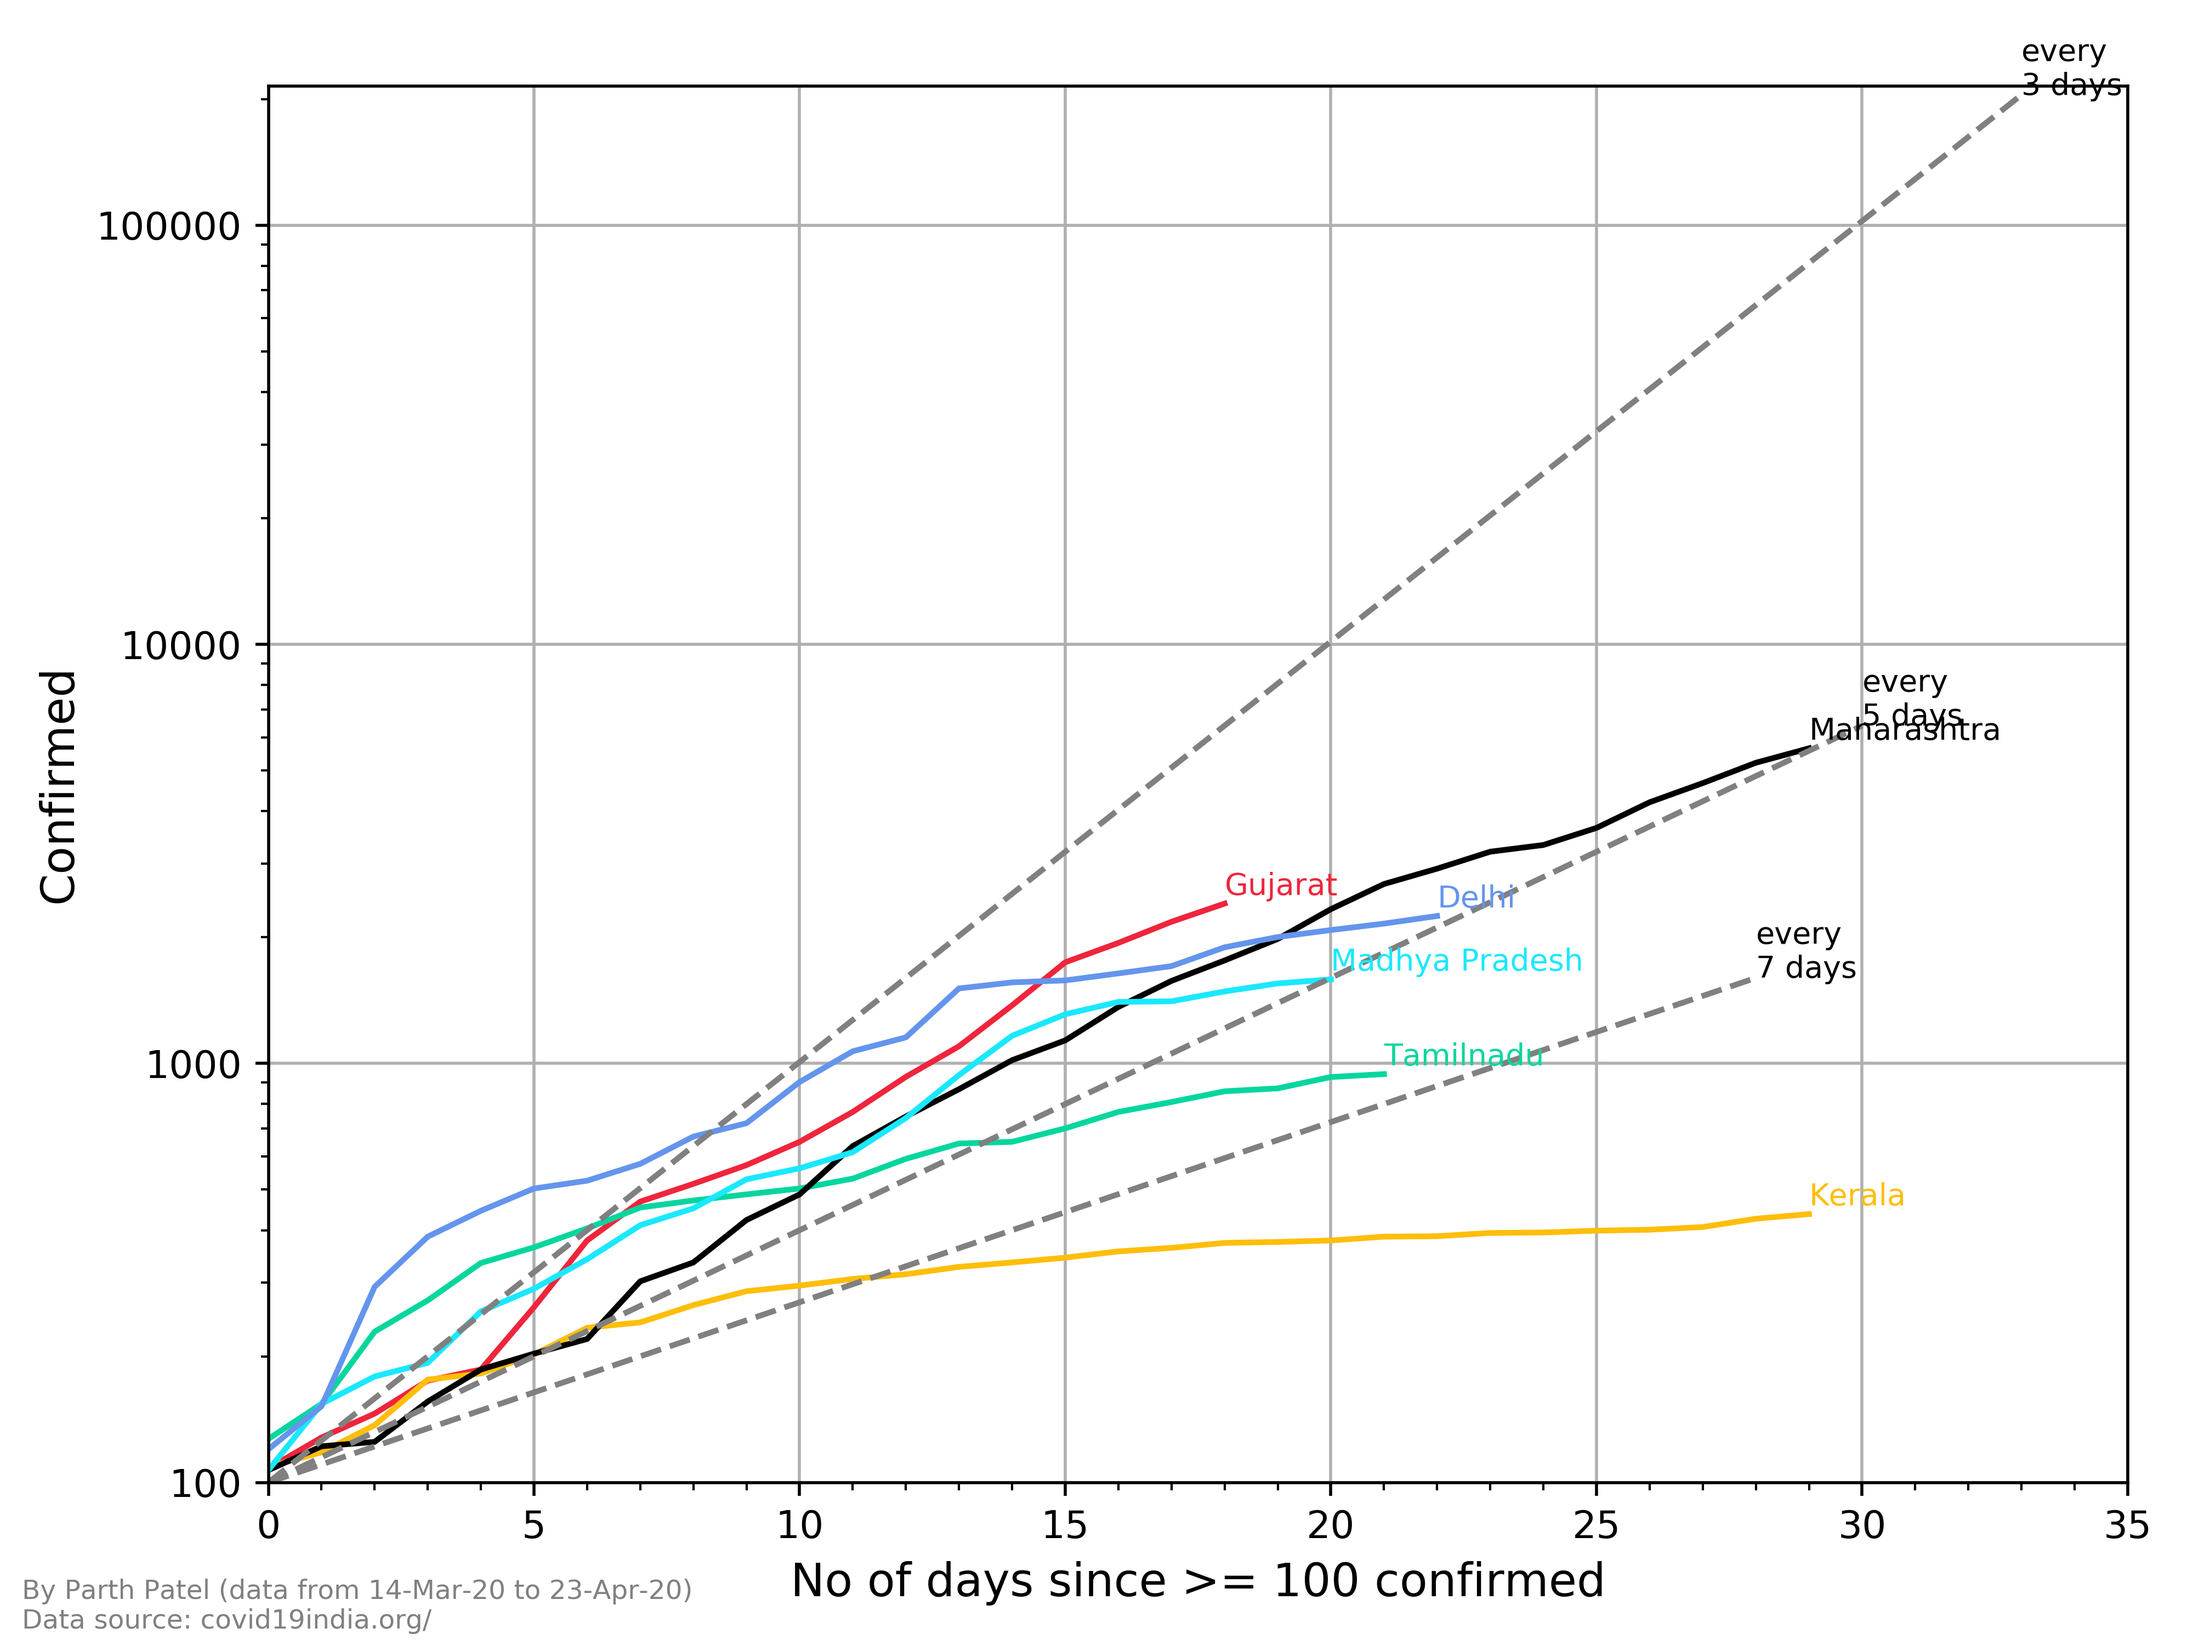
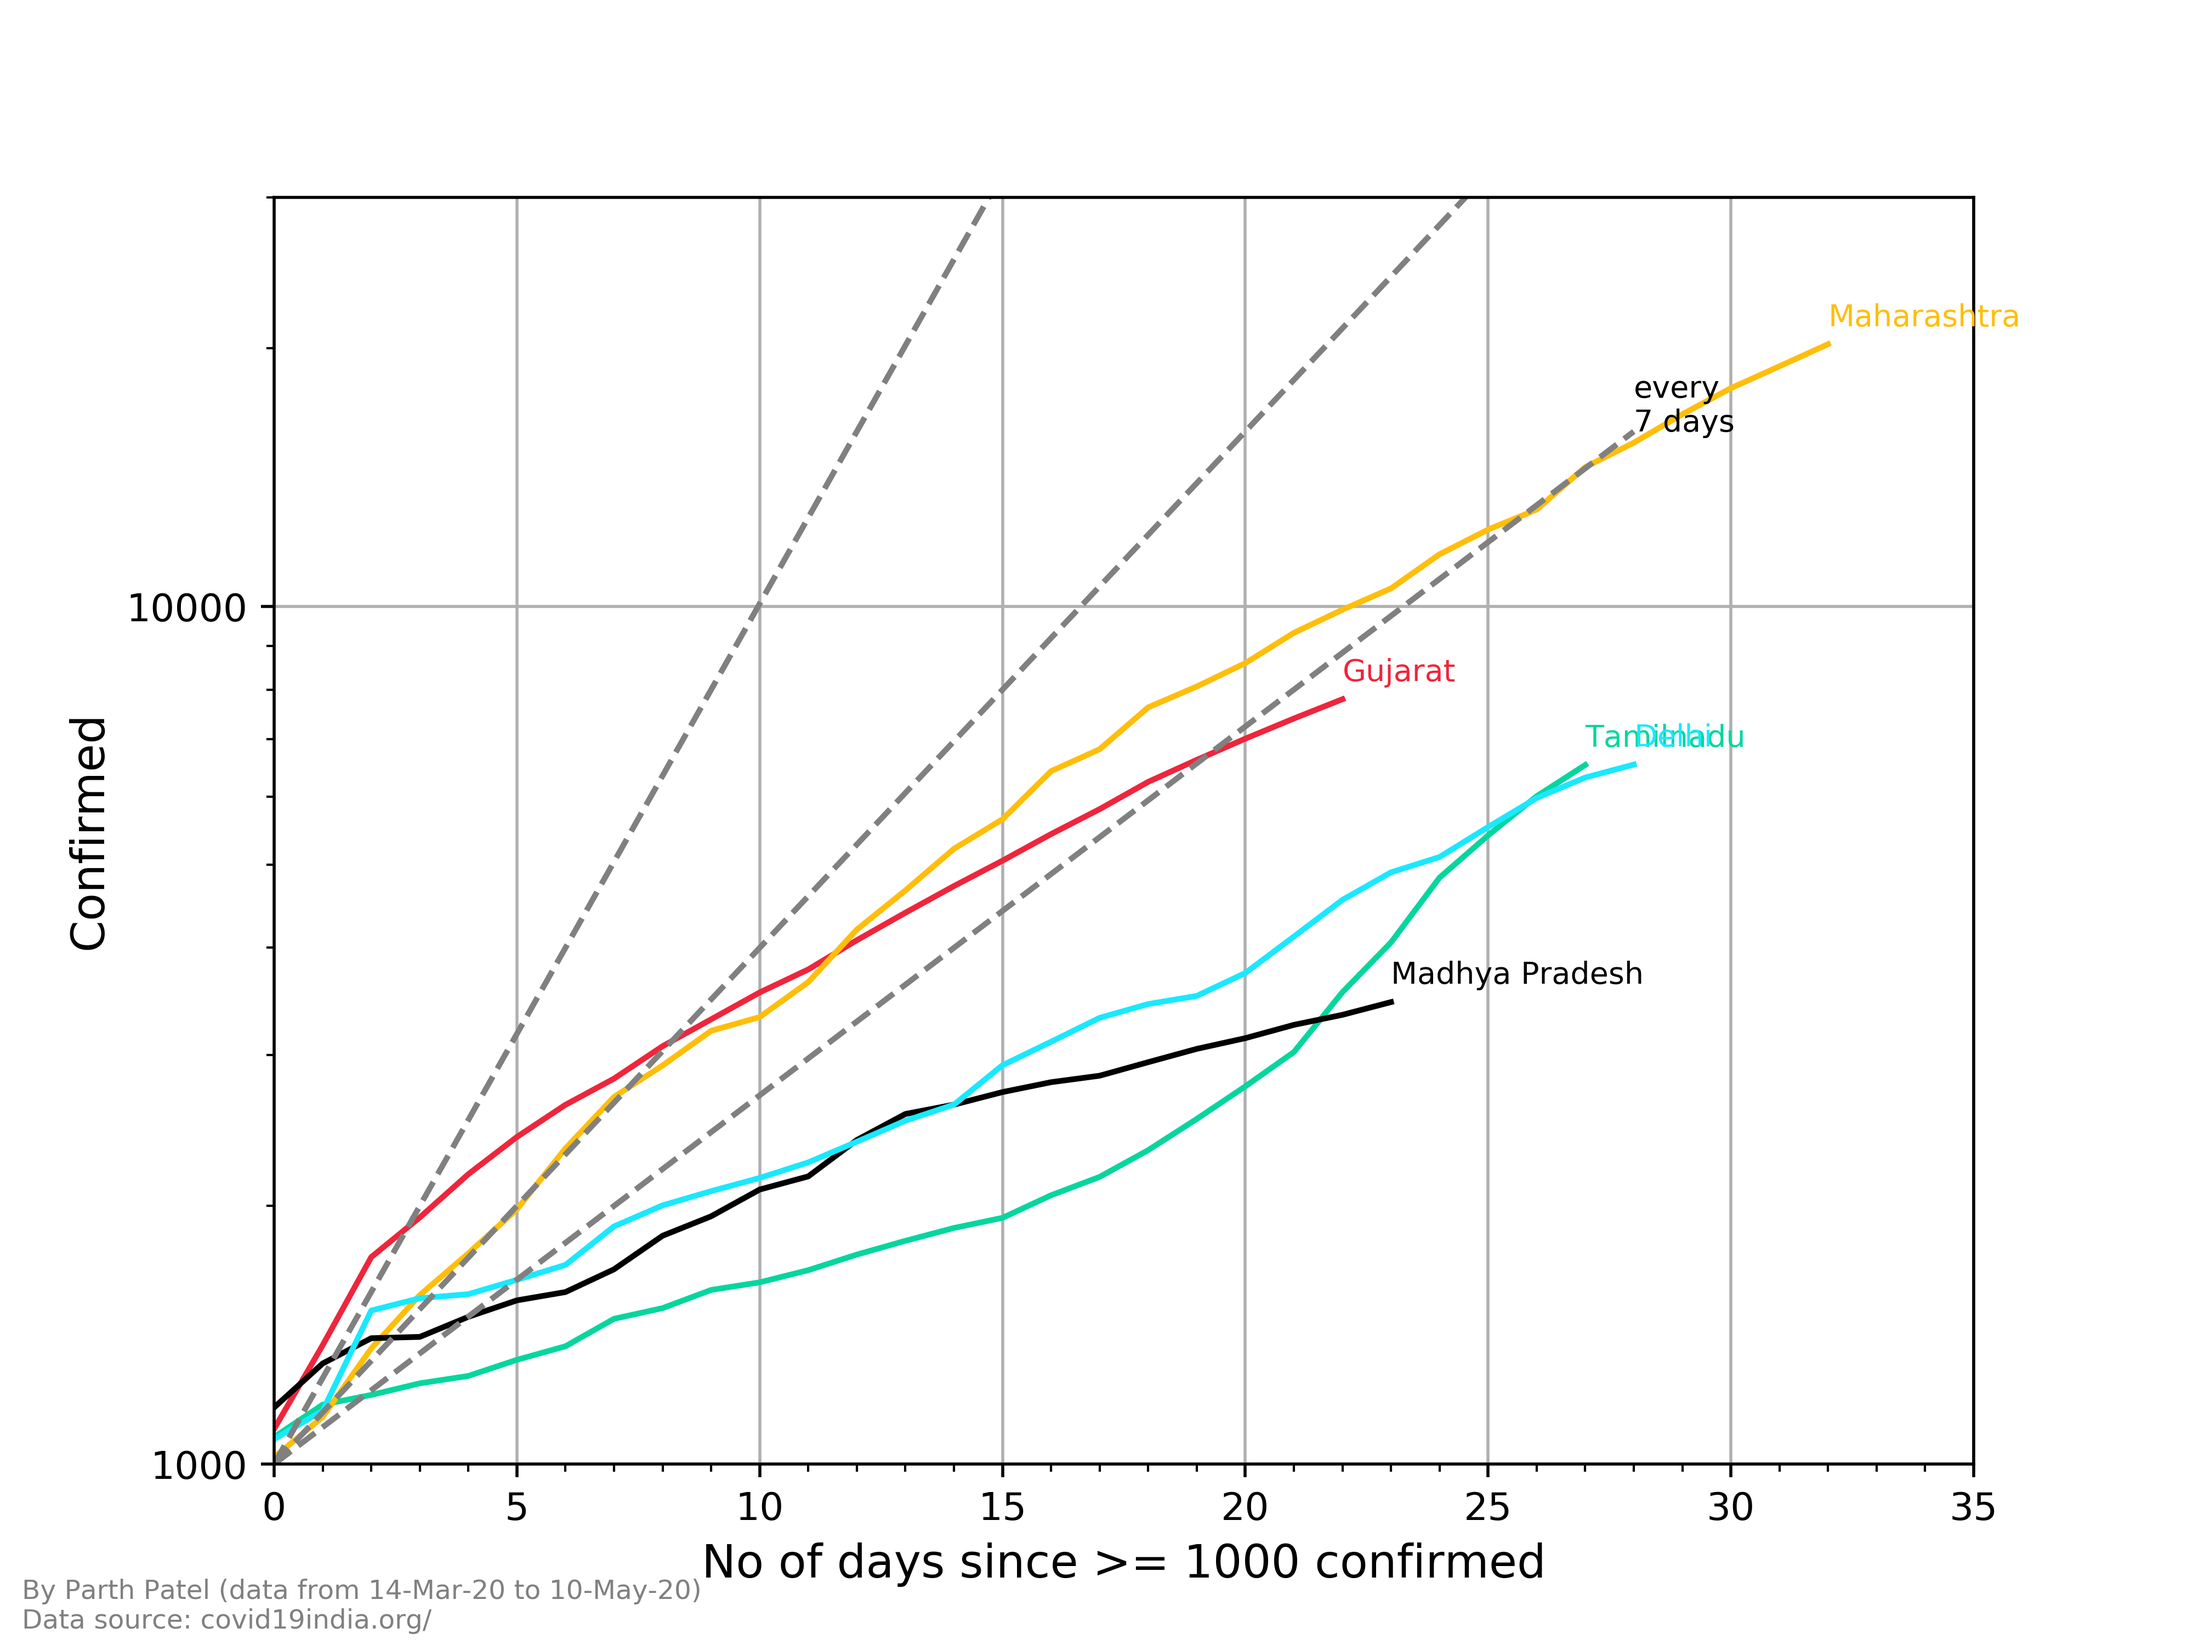
latest

diff --git a/state_wise.py b/state_wise.py
@@ -6,7 +6,7 @@ dict_recovered_daily = {}
 dict_death_daily = {}
 # TT,AN,AP,AR,AS,BR,CH,CT,DD,DL,DN,GA,GJ,HP,HR,JH,JK,KA,KL,LA,LD,MH,ML,MN,MP,MZ,NL,OR,PB,PY,RJ,SK,TG,TN,TR,UP,UT,WB,
 list_state = ['Total', "Andaman and Nicobar Islands", "Andhra Pradesh", "Arunachal Pradesh", "Assam", "Bihar", "Chandigarh", "Chhattisgarh", "Div & Daman", "Delhi", "DADRA AND NAGAR HAVELI", "Goa", "Gujarat",  "Himachal Pradesh", "Haryana", "Jharkhand", "Jammu and Kashmir",
-              "Karnataka", "Kerala", "Lakshadweep", "Ladakh", "Maharashtra", "Meghalaya", "Manipur", "Madhya Pradesh", "Mizoram", "Nagaland", "Odisha", "Punjab", "Puducherry", "Rajasthan", "Telangana", "Tamilnadu", "Tripura", "Uttar Pradesh", "Uttarakhand", "West Bengal"]
+              "Karnataka", "Kerala", "Lakshadweep", "Ladakh", "Maharashtra", "Meghalaya", "Manipur", "Madhya Pradesh", "Mizoram", "Nagaland", "Odisha", "Punjab", "Puducherry", "Rajasthan", "Sikkim", "Telangana", "Tamilnadu", "Tripura", "Uttar Pradesh", "Uttarakhand", "West Bengal"]
 
 
 for i in list_state:
@@ -97,9 +97,9 @@ for i in list_state:
     first_death_dict[i] = []
     first_recovered_dict[i] = []
 
-threshold_confirmed = 100
-threshold_death = 2
-threshold_recovered = 10
+threshold_confirmed = 1000
+threshold_death = 10
+threshold_recovered = 100
 no_of_days = 35
 for i in list_state:
     for j in dict_confirmed_cumulative[i]:
@@ -115,7 +115,7 @@ for i in list_state:
             first_death_dict[i].append(j)
 
 
-states = ['Gujarat', 'Tamilnadu', 'Kerala',
+states = ['Gujarat', 'Tamilnadu',
           'Maharashtra', 'Madhya Pradesh', 'Delhi']
 color_list = ['#ef253c', '#05d69e', '#ffbe0a', 'black',
               '#1ae8ff',  '#6495ed', '#a4bd00', 'blue', '#8236ec', '#a33e48']
@@ -135,7 +135,7 @@ doubling_plot(no_of_days, 0, threshold_recovered, 3)
 doubling_plot(no_of_days, 0, threshold_recovered, 5)
 doubling_plot(no_of_days, 0, threshold_recovered, 7)
 plt.xlim((0, no_of_days))
-plt.ylim((threshold_recovered, 1e3))
+plt.ylim((threshold_recovered, 5e3))
 plt.yscale('log')
 ax.yaxis.set_major_formatter(plt.FormatStrFormatter('%d'))
 # plt.legend()
@@ -164,7 +164,7 @@ doubling_plot(no_of_days, 0, threshold_confirmed, 3)
 doubling_plot(no_of_days, 0, threshold_confirmed, 5)
 doubling_plot(no_of_days, 0, threshold_confirmed, 7)
 plt.xlim((0, no_of_days))
-plt.ylim(bottom=threshold_confirmed)
+plt.ylim(threshold_confirmed, 3e4)
 plt.yscale('log')
 ax.yaxis.set_major_formatter(plt.FormatStrFormatter('%d'))
 # plt.legend()
@@ -182,7 +182,7 @@ plt.savefig('confirmed_state', dpi=500)
 
 
 # death
-figure, ax = plt.subplots(figsize=(8, 6))
+figure, ax = plt.subplots()
 k = 0
 for i in states:
     plt.plot(first_death_dict[i], label=i, color=color_list[k])

diff --git a/plot.py b/plot.py
@@ -87,9 +87,9 @@ for i in countries:
     first_death_dict[i] = []
     first_recovered_dict[i] = []
 
-threshold_confirmed = 100
-threshold_death = 10
-threshold_recovered = 10
+threshold_confirmed = 20000
+threshold_death = 200
+threshold_recovered = 1000
 no_of_days = 90
 for i in countries:
     for j in confirmed_dict[i]:
@@ -105,9 +105,9 @@ for i in countries:
             first_death_dict[i].append(j)
 
 list_countries = ['Italy', 'India', 'Spain', 'China',
-                  'France', 'United Kingdom', 'Iran', 'US', 'Japan', 'Korea, South']
+                  'France', 'Iran', 'US', 'Germany']
 color_list = ['#ef253c', '#05d69e', '#ffbe0a', 'black',
-              '#1ae8ff',  '#6495ed', '#a4bd00', 'blue', '#8236ec', '#a33e48']
+              '#1ae8ff',  '#6495ed', '#a4bd00', 'blue', '#8236ec', '#a33e48', '#ff8a5c', '#ef486f']
 
 # death
 figure, ax = plt.subplots(figsize=(8, 6))
@@ -182,8 +182,9 @@ for i in list_countries:
 doubling_plot(no_of_days, 0, threshold_confirmed, 3)
 doubling_plot(no_of_days, 0, threshold_confirmed, 5)
 doubling_plot(no_of_days, 0, threshold_confirmed, 7)
+doubling_plot(no_of_days, 0, threshold_confirmed, 9)
 plt.xlim((0, no_of_days))
-plt.ylim((threshold_confirmed, 1e6))
+plt.ylim((threshold_confirmed, 1.5e6))
 plt.yscale('log')
 ax.yaxis.set_major_formatter(plt.FormatStrFormatter('%d'))
 # plt.legend()
@@ -197,11 +198,18 @@ plt.tight_layout()
 plt.show()
 plt.savefig('confirmed', dpi=500)
 
+
+threshold_confirmed = 10
+threshold_death = 10
+threshold_recovered = 10
+no_of_days = 200
 # rise confirmed
 fig, ax = plt.subplots(figsize=(8, 6))
 k = 0
 for i in list_countries:
-    rise_day_by_day = np.diff(first_confirmed_dict[i])
+    rise_day_by_day = np.convolve(
+        np.diff(first_confirmed_dict[i]), np.ones(7,)/7)[:-7]
+    # plt.plot(rise_day_by_day, color=color_list[k], label=i)
     plt.plot(rise_day_by_day, color=color_list[k], label=i)
     plt.annotate(i, (len(rise_day_by_day)-1, rise_day_by_day
                      [-1]+0.05*rise_day_by_day[-1]), color=color_list[k], fontsize=8)
@@ -210,7 +218,7 @@ for i in list_countries:
         f'No of days since >= {threshold_confirmed} confirmed', fontsize=12)
     k += 1
 plt.xlim((0, no_of_days))
-plt.ylim((threshold_confirmed, 1e5))
+plt.ylim(bottom=threshold_confirmed)
 plt.yscale('log')
 ax.yaxis.set_major_formatter(plt.FormatStrFormatter('%d'))
 # plt.legend()
@@ -274,6 +282,7 @@ plt.figtext(0.01, 0.01, f'By Parth Patel (data from {dates[0]:} to {dates[-1]}) 
 plt.minorticks_on()
 plt.grid(which='major', axis='both')
 # plt.grid(which='minor', axis='both')
+# np.convolve(x, np.ones((N,))/N, mode='valid')
 
 plt.tight_layout()
 plt.show()
